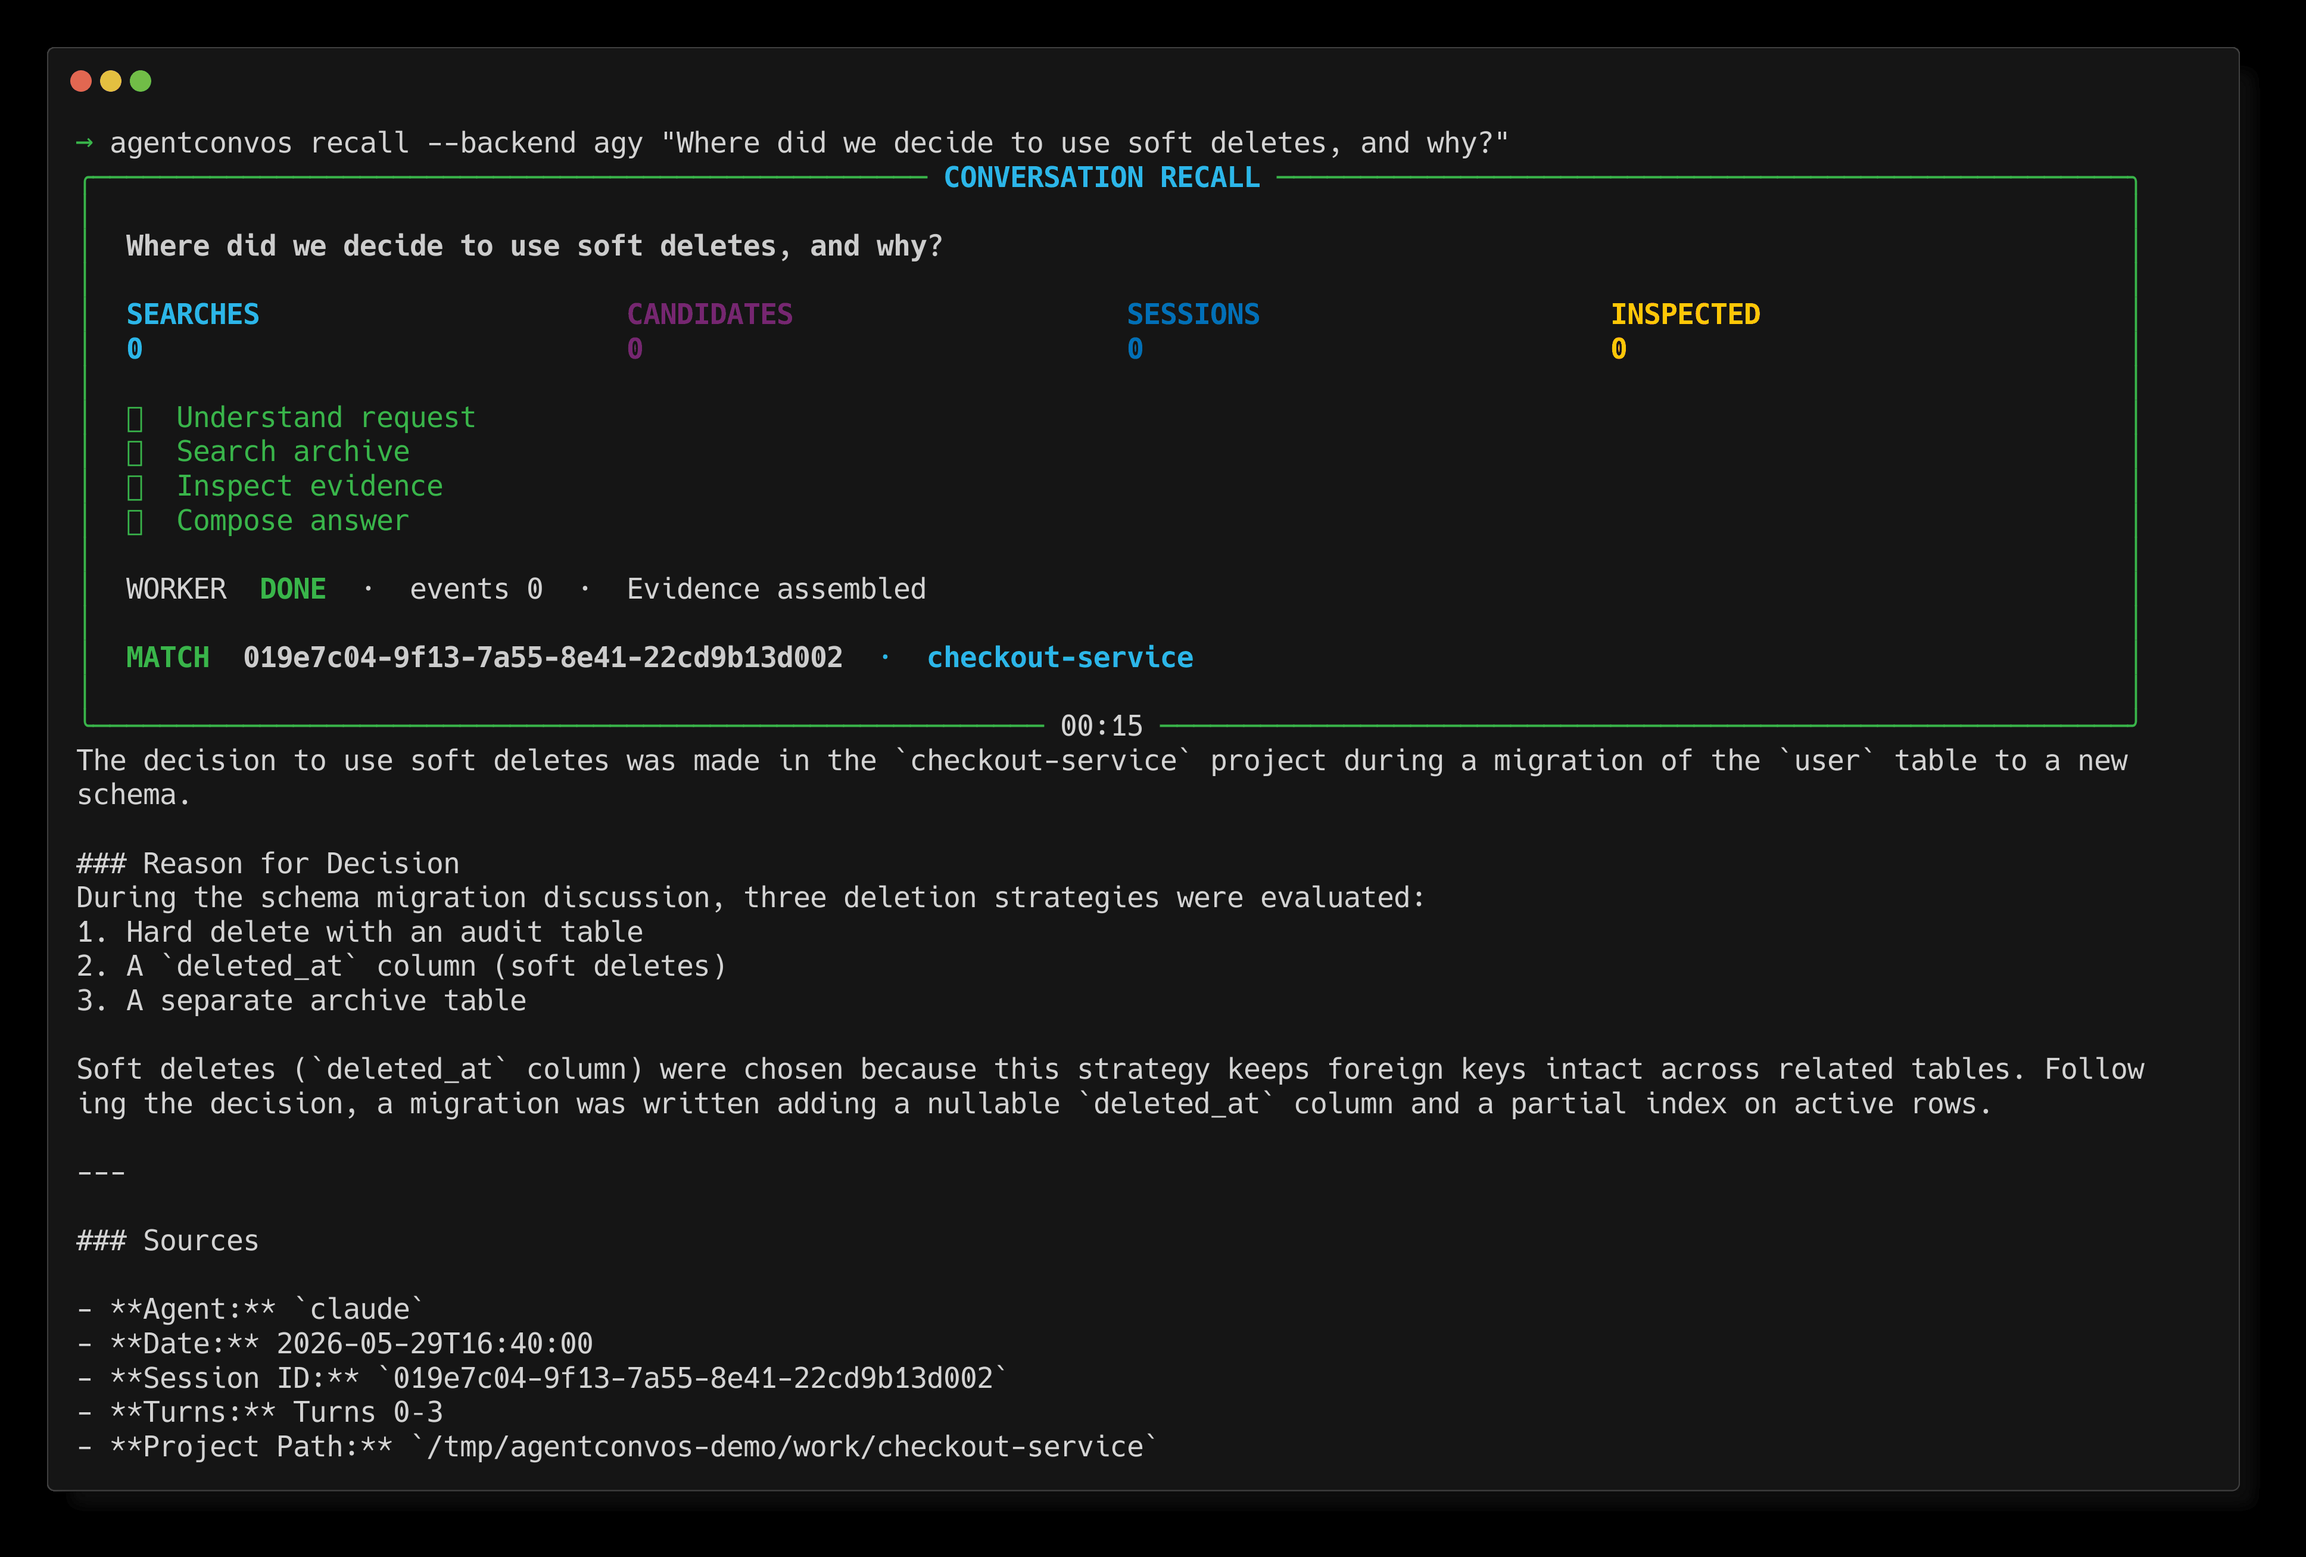
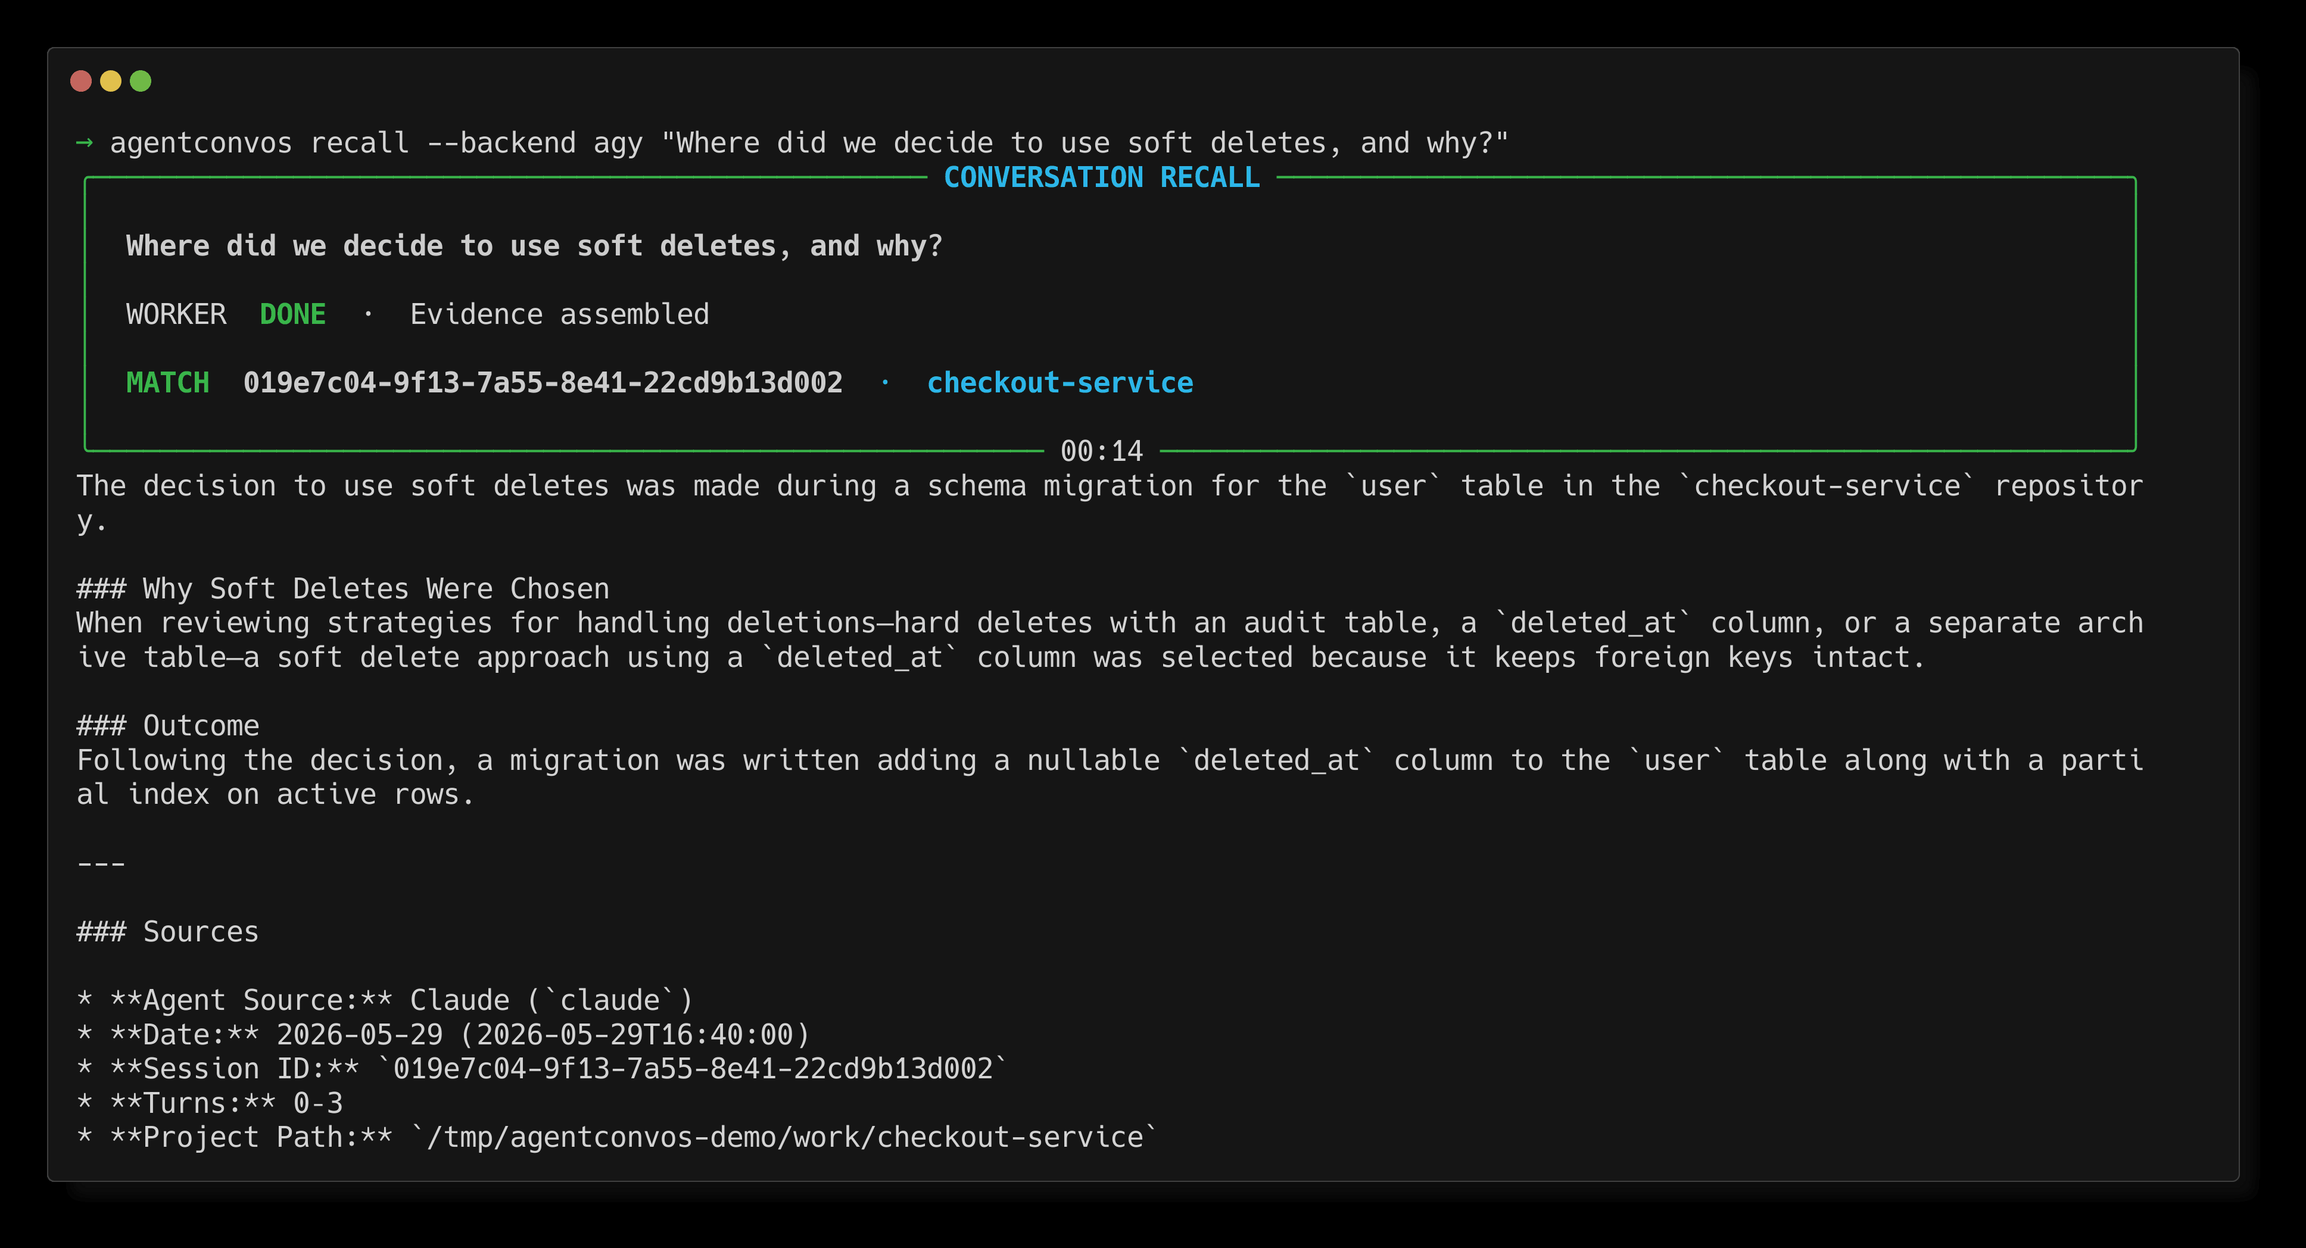
Stop showing recall counters the AGY backend never measures
The recall panel displayed SEARCHES, CANDIDATES, SESSIONS, INSPECTED and
a worker event count for every backend, but only Codex streams retrieval
events. The AGY bridge returns one final payload, so its run painted a
cockpit of zeros for its whole duration and claimed to be measuring
retrieval it never observed.

The panel now asks the backend whether it streams progress. Codex is
unchanged. AGY gets a panel of what it can honestly report: the
question, worker state, elapsed time and the matched session.

The README claimed the full cockpit for recall generally; it now says
which backend produces which panel. The image generator also refuses to
publish a recall capture whose frame has no Sources section, after a
failed Codex run against the demo home turned into a screenshot of 401
errors, and it checks its tools up front instead of reporting success
for images it never wrote.

diff --git a/src/agentconvos/recall.py b/src/agentconvos/recall.py
@@ -185,9 +185,14 @@ class _RecallProgress:
         question: str,
         *,
         clock: Callable[[], float] = time.monotonic,
+        streams_progress: bool = True,
     ) -> None:
         self.question = question
         self._clock = clock
+        # Some backends hand back one final payload instead of a stream of
+        # retrieval events. Their panel must not display counters that can
+        # only ever read zero.
+        self.streams_progress = streams_progress
         self.started_at = clock()
         self.stage = 0
         self.searches = 0
@@ -301,12 +306,17 @@ class _RecallProgress:
             f"CONVERSATION RECALL  {self.elapsed}",
             f"QUESTION  {self.question}",
             f"STAGE  {status}",
-            (
-                f"SEARCHES  {self.searches}    CANDIDATES  {self.candidates}    "
-                f"SESSIONS  {len(self.sessions)}    INSPECTED  {len(self.inspected)}"
-            ),
-            f"WORKER ACTIVITY  {self.activity}    {self.latest}",
         ]
+        if self.streams_progress:
+            lines.extend((
+                (
+                    f"SEARCHES  {self.searches}    CANDIDATES  {self.candidates}    "
+                    f"SESSIONS  {len(self.sessions)}    INSPECTED  {len(self.inspected)}"
+                ),
+                f"WORKER ACTIVITY  {self.activity}    {self.latest}",
+            ))
+        else:
+            lines.append(f"WORKER  {self.latest}")
         if self.final_session or self.final_path:
             match = self.final_session or "Matched conversation"
             if self.final_path:
@@ -328,6 +338,9 @@ class _RecallProgress:
             Text(f"INSPECTED\n{len(self.inspected)}", style="bold yellow"),
         )
 
+        if not self.streams_progress:
+            return self._opaque_panel(header)
+
         stages = Table.grid(padding=(0, 1))
         stages.add_column(width=2)
         stages.add_column()
@@ -347,6 +360,34 @@ class _RecallProgress:
         content: list[RenderableType] = [header, Text(""), stats, Text(""), stages, Text(""), footer]
         if self.archive_size:
             content.append(Text(f"ARCHIVE  {self.archive_size:,} conversations checked", style="dim"))
+        if self.final_session or self.final_path:
+            match = Text("MATCH  ", style="bold green")
+            match.append(self.final_session or "Conversation located", style="bold white")
+            if self.final_path:
+                match.append(f"  ·  {Path(self.final_path).name}", style="cyan")
+            content.extend((Text(""), match))
+        return Panel(
+            Group(*content),
+            title="[bold cyan]CONVERSATION RECALL[/]",
+            subtitle=f"[dim]{self.elapsed}[/]",
+            border_style="cyan" if self.succeeded is None else "green",
+            box=box.ROUNDED,
+            padding=(1, 2),
+        )
+
+    def _opaque_panel(self, header: Text) -> RenderableType:
+        """What can honestly be shown for a backend that reports only at the end."""
+        status = Text()
+        status.append("WORKER  ", style="dim")
+        if self.succeeded is None:
+            status.append("SEARCHING", style="bold cyan")
+            status.append("  ·  the archive is being read by the retrieval worker", style="dim")
+        else:
+            status.append("DONE" if self.succeeded else "STOPPED",
+                          style="bold green" if self.succeeded else "bold red")
+            status.append(f"  ·  {self.latest}", style="dim")
+
+        content: list[RenderableType] = [header, Text(""), status]
         if self.final_session or self.final_path:
             match = Text("MATCH  ", style="bold green")
             match.append(self.final_session or "Conversation located", style="bold white")
@@ -411,7 +452,8 @@ def run_recall(
     spawn = process_factory or subprocess.Popen
     environment = os.environ.copy()
     environment[_RECALL_ACTIVE_ENV] = "1"
-    progress = _RecallProgress(question)
+    # The AGY bridge answers in one payload; only Codex streams retrieval events.
+    progress = _RecallProgress(question, streams_progress=backend != "agy")
     interactive = _is_tty(stderr)
     console = Console(file=stderr, force_terminal=True) if interactive else None
     process: subprocess.Popen[str] | None = None

diff --git a/tests/test_recall.py b/tests/test_recall.py
@@ -8,6 +8,8 @@ import unittest
 from pathlib import Path
 from unittest.mock import patch
 
+from rich.console import Console
+
 from agentconvos import recall
 
 
@@ -114,6 +116,25 @@ class RecallProgressTests(unittest.TestCase):
             }
         )
         self.assertEqual(progress.stage, 3)
+
+    def test_panel_hides_counters_a_backend_cannot_report(self):
+        """The AGY bridge returns one final payload rather than a stream, so a
+        cockpit of retrieval counters there would sit at zero for the whole run
+        and claim to be measuring something it never sees."""
+        console = Console(width=100, force_terminal=False)
+
+        streaming = recall._RecallProgress("Where was it?")
+        with console.capture() as captured:
+            console.print(streaming)
+        self.assertIn("SEARCHES", captured.get())
+
+        opaque = recall._RecallProgress("Where was it?", streams_progress=False)
+        with console.capture() as captured:
+            console.print(opaque)
+        panel = captured.get()
+        for label in ("SEARCHES", "CANDIDATES", "INSPECTED", "events"):
+            self.assertNotIn(label, panel)
+        self.assertIn("Where was it?", panel)
 
     def test_progress_tracks_real_searches_candidates_inspection_and_final_match(self):
         progress_type = getattr(recall, "_RecallProgress", None)

diff --git a/README.md b/README.md
@@ -73,11 +73,14 @@ the same retrieval workflow through the local AGY bridge, which uses its Gemini
 3.6 Flash high-thinking default; `--backend luna` keeps the existing Codex Luna
 path explicit.
 
-In an interactive terminal, recall renders a live cockpit with elapsed time,
-retrieval stage, real search attempts, candidate and unique-session counts,
-inspected conversations, archive coverage, worker activity, and the final matched
-session. Piped use stays plain: progress goes to stderr without terminal control
-codes, while stdout contains only the final evidence-backed answer.
+In an interactive terminal, recall renders a live panel with the elapsed time and
+the matched session. The Codex backend streams its retrieval events, so its panel
+also shows the current stage, real search attempts, candidate and unique-session
+counts, inspected conversations, and archive coverage. The AGY bridge answers in a
+single payload instead of a stream, so its panel reports only what it can actually
+observe rather than counters that would sit at zero. Piped use stays plain:
+progress goes to stderr without terminal control codes, while stdout contains only
+the final evidence-backed answer.
 
 ### Search
 
